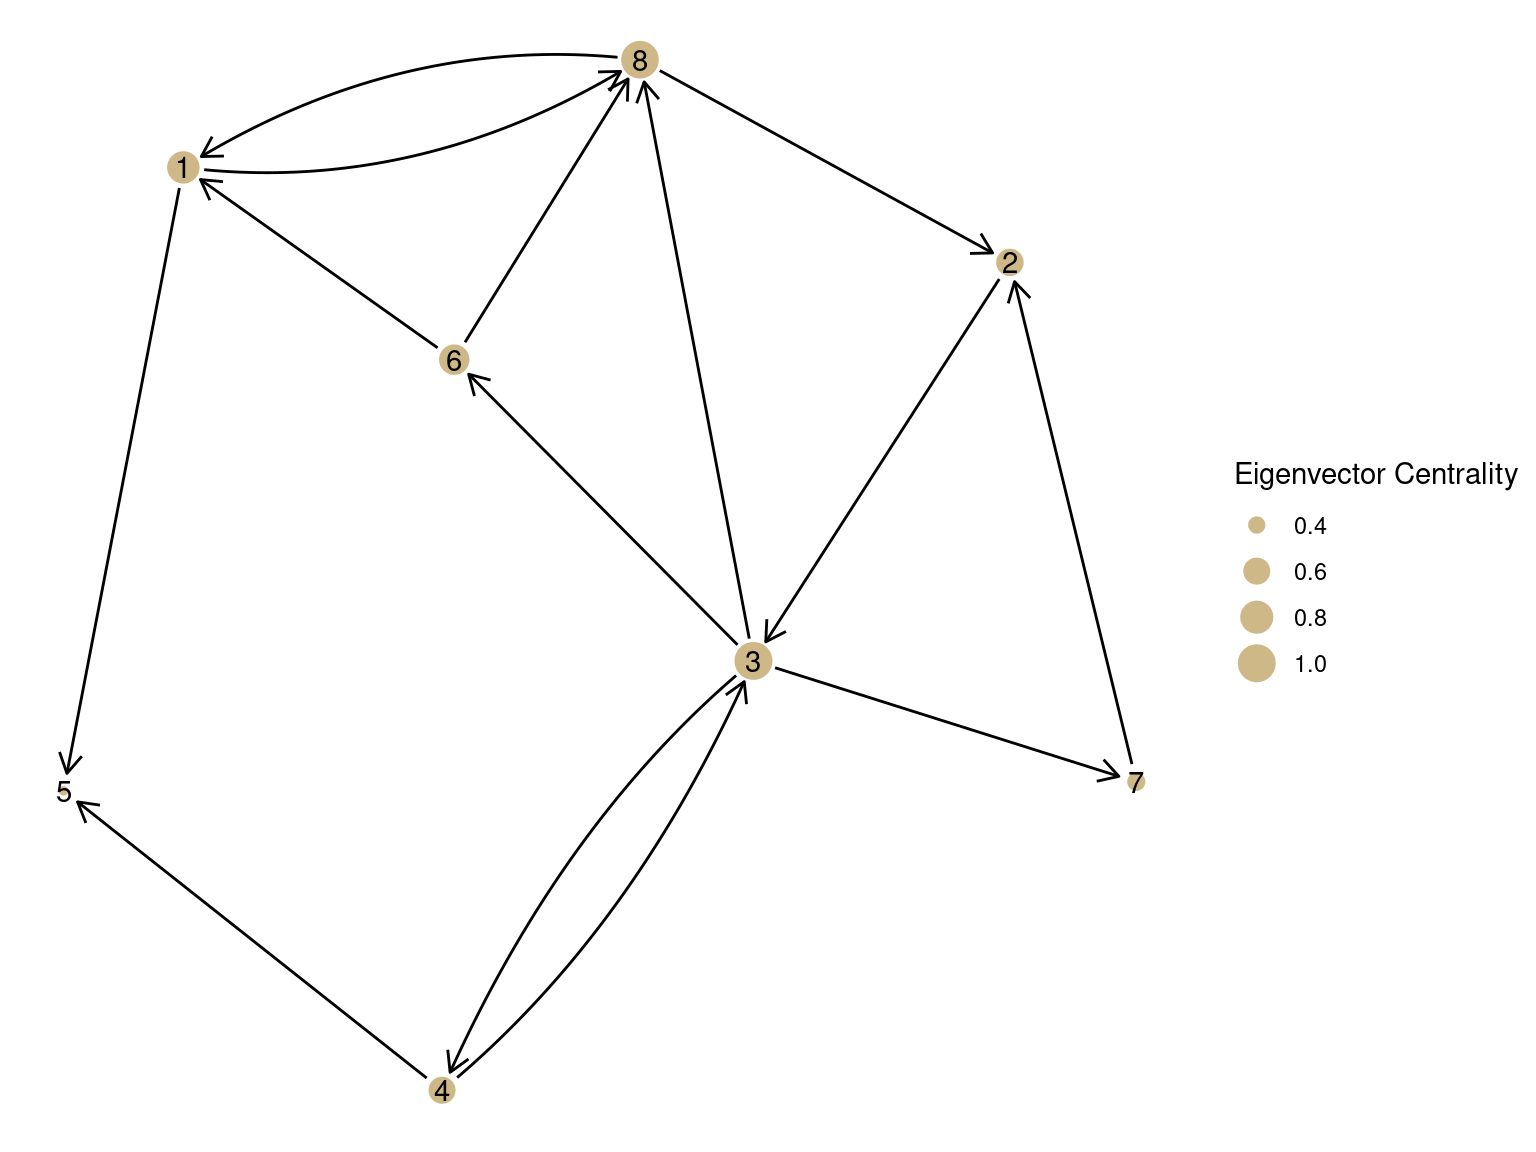
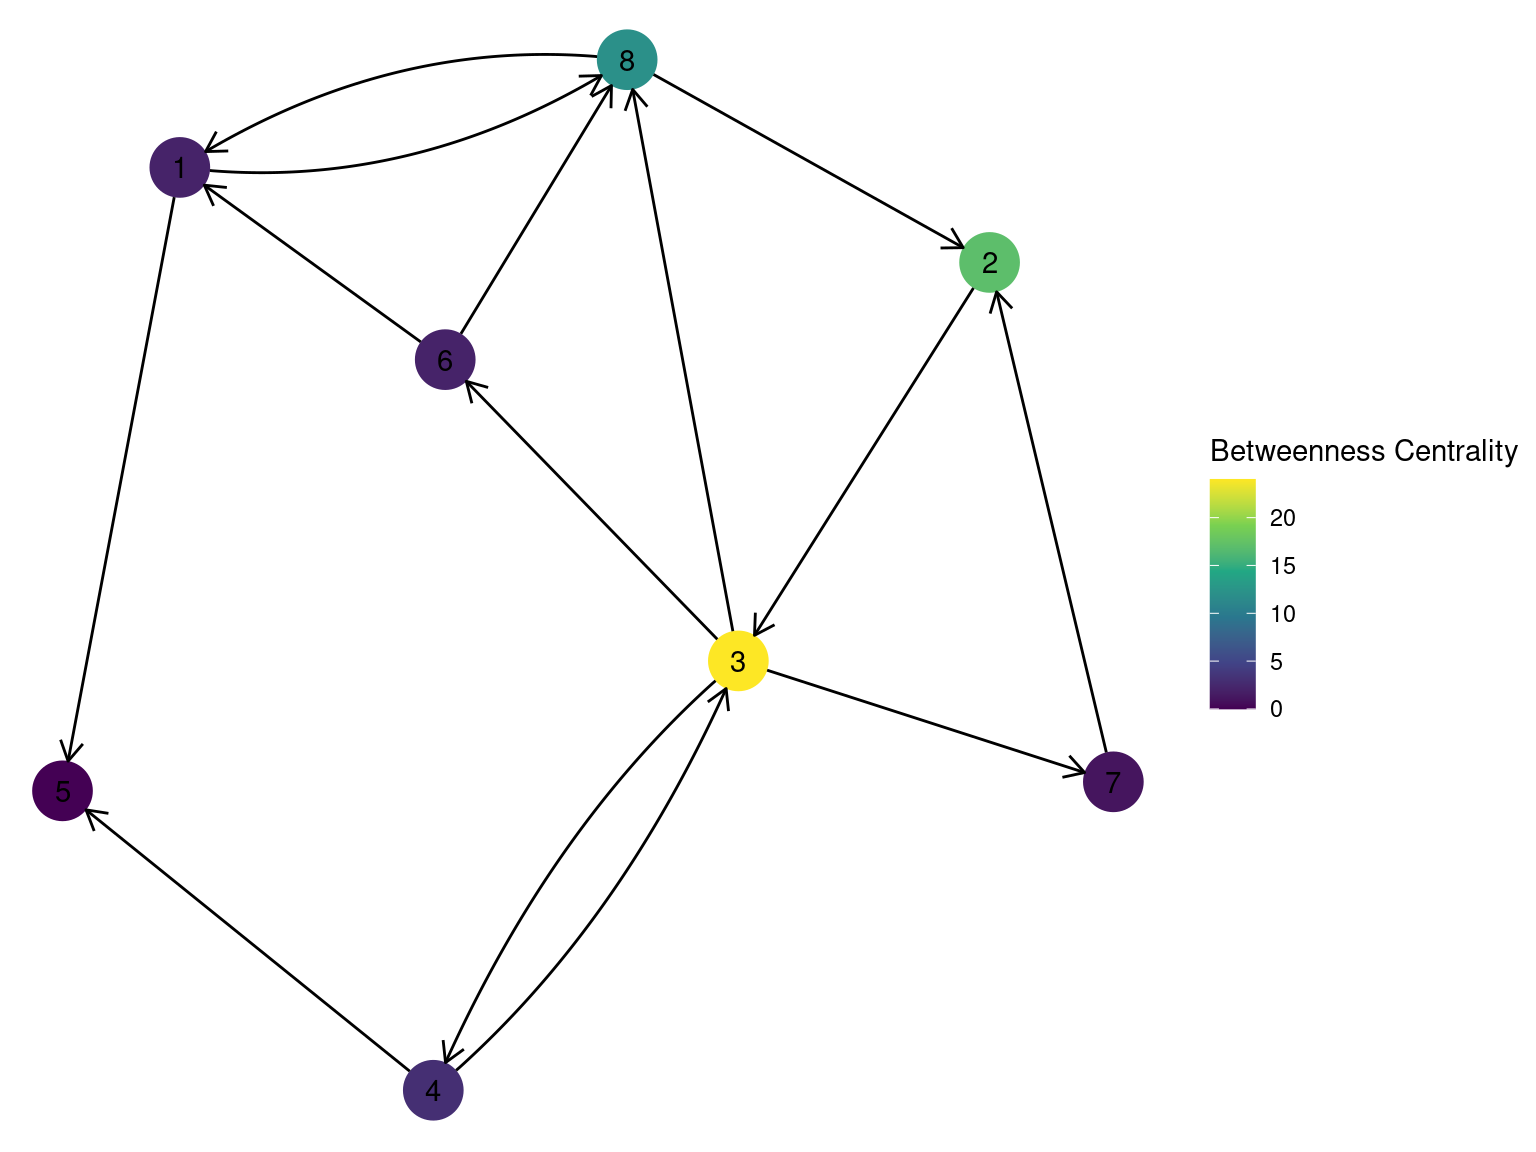
Fixing bug in YAML

diff --git a/week_6/power_visualization.html b/week_6/power_visualization.html
@@ -588,33 +588,35 @@ document.getElementsByTagName('head')[0].appendChild(style);
 <h3 id="exercise-2">Exercise</h3>
 <p>Look again at the network and guess which nodes will have the highest betweenness centrality.</p>
 <p>After you’ve done that, turn this into a code block (by adding “{r}” after the backticks) and then find the bug in the code below so that it shows betweenness centrality</p>
-<pre><code>G %&gt;%
-  activate(nodes) %&gt;%
-  mutate(centrality = centrality_betweenness()) %&gt;%
-  ggraph() +
-  geom_node_point(aes(size = centrality), color = &#39;#ceb888&#39;) +
-  geom_node_text(aes(label = 1:8)) +
-  geom_edge_fan(end_cap = circle(node2.centrality + 2,&quot;mm&quot;),
-                start_cap = circle(node1.centrality + 2, &quot;mm&quot;),
-                arrow = arrow(length = unit(3, &#39;mm&#39;))) +
-  scale_size_continuous(name = &quot;Betweenness Centrality&quot;)</code></pre>
+<div class="sourceCode" id="cb11"><pre class="sourceCode r"><code class="sourceCode r"><a class="sourceLine" id="cb11-1" data-line-number="1">G <span class="op">%&gt;%</span></a>
+<a class="sourceLine" id="cb11-2" data-line-number="2"><span class="st">  </span><span class="kw">activate</span>(nodes) <span class="op">%&gt;%</span></a>
+<a class="sourceLine" id="cb11-3" data-line-number="3"><span class="st">  </span><span class="kw">mutate</span>(<span class="dt">centrality =</span> <span class="kw">centrality_betweenness</span>()) <span class="op">%&gt;%</span></a>
+<a class="sourceLine" id="cb11-4" data-line-number="4"><span class="st">  </span><span class="kw">ggraph</span>() <span class="op">+</span></a>
+<a class="sourceLine" id="cb11-5" data-line-number="5"><span class="st">  </span><span class="kw">geom_node_point</span>(<span class="kw">aes</span>(<span class="dt">color =</span> centrality), <span class="dt">size =</span> <span class="dv">10</span>) <span class="op">+</span></a>
+<a class="sourceLine" id="cb11-6" data-line-number="6"><span class="st">  </span><span class="kw">geom_node_text</span>(<span class="kw">aes</span>(<span class="dt">label =</span> <span class="dv">1</span><span class="op">:</span><span class="dv">8</span>)) <span class="op">+</span></a>
+<a class="sourceLine" id="cb11-7" data-line-number="7"><span class="st">  </span><span class="kw">geom_edge_fan</span>(<span class="kw">aes</span>(<span class="dt">end_cap =</span> <span class="kw">circle</span>(<span class="dv">4</span>,<span class="st">&quot;mm&quot;</span>),</a>
+<a class="sourceLine" id="cb11-8" data-line-number="8">                <span class="dt">start_cap =</span> <span class="kw">circle</span>(<span class="dv">4</span>, <span class="st">&quot;mm&quot;</span>)),</a>
+<a class="sourceLine" id="cb11-9" data-line-number="9">                <span class="dt">arrow =</span> <span class="kw">arrow</span>(<span class="dt">length =</span> <span class="kw">unit</span>(<span class="dv">3</span>, <span class="st">&#39;mm&#39;</span>))) <span class="op">+</span></a>
+<a class="sourceLine" id="cb11-10" data-line-number="10"><span class="st">  </span><span class="kw">scale_color_viridis_c</span>(<span class="dt">name =</span> <span class="st">&quot;Betweenness Centrality&quot;</span>)</a></code></pre></div>
+<pre><code>## Using `stress` as default layout</code></pre>
+<p><img src="power_visualization_files/figure-revealjs/unnamed-chunk-6-1.png" width="768" /></p>
 </section><section id="eigenvector-centrality" class="slide level2">
 <h2>Eigenvector centrality</h2>
 <p>The last important measures of centrality is eigenvector centrality. The calculation is complicated and based on matrix algebra but the concept is pretty simple: all else being equal, a node is more powerful if it’s connected to a node that’s well-connected.</p>
 <p>This is actually the basis of Google’s original search algorithm, and is part of what made them successful.</p>
 <h3 id="exercise-3">Exercise</h3>
-<div class="sourceCode" id="cb12"><pre class="sourceCode r"><code class="sourceCode r"><a class="sourceLine" id="cb12-1" data-line-number="1">G <span class="op">%&gt;%</span></a>
-<a class="sourceLine" id="cb12-2" data-line-number="2"><span class="st">  </span><span class="kw">activate</span>(nodes) <span class="op">%&gt;%</span></a>
-<a class="sourceLine" id="cb12-3" data-line-number="3"><span class="st">  </span><span class="kw">mutate</span>(<span class="dt">centrality =</span> <span class="kw">centrality_eigen</span>()) <span class="op">%&gt;%</span></a>
-<a class="sourceLine" id="cb12-4" data-line-number="4"><span class="st">  </span><span class="kw">ggraph</span>() <span class="op">+</span></a>
-<a class="sourceLine" id="cb12-5" data-line-number="5"><span class="st">  </span><span class="kw">geom_node_point</span>(<span class="kw">aes</span>(<span class="dt">size =</span> centrality), <span class="dt">color =</span> <span class="st">&#39;#ceb888&#39;</span>) <span class="op">+</span></a>
-<a class="sourceLine" id="cb12-6" data-line-number="6"><span class="st">  </span><span class="kw">geom_node_text</span>(<span class="kw">aes</span>(<span class="dt">label =</span> <span class="dv">1</span><span class="op">:</span><span class="dv">8</span>)) <span class="op">+</span></a>
-<a class="sourceLine" id="cb12-7" data-line-number="7"><span class="st">  </span><span class="kw">geom_edge_fan</span>(<span class="kw">aes</span>(<span class="dt">end_cap =</span> <span class="kw">circle</span>(node2.centrality <span class="op">+</span><span class="st"> </span><span class="dv">2</span>,<span class="st">&quot;mm&quot;</span>),</a>
-<a class="sourceLine" id="cb12-8" data-line-number="8">                    <span class="dt">start_cap =</span> <span class="kw">circle</span>(node1.centrality <span class="op">+</span><span class="st"> </span><span class="dv">2</span>, <span class="st">&quot;mm&quot;</span>)),</a>
-<a class="sourceLine" id="cb12-9" data-line-number="9">                <span class="dt">arrow =</span> <span class="kw">arrow</span>(<span class="dt">length =</span> <span class="kw">unit</span>(<span class="dv">3</span>, <span class="st">&#39;mm&#39;</span>))) <span class="op">+</span></a>
-<a class="sourceLine" id="cb12-10" data-line-number="10"><span class="st">  </span><span class="kw">scale_size_continuous</span>(<span class="dt">name =</span> <span class="st">&quot;Eigenvector Centrality&quot;</span>)</a></code></pre></div>
+<div class="sourceCode" id="cb13"><pre class="sourceCode r"><code class="sourceCode r"><a class="sourceLine" id="cb13-1" data-line-number="1">G <span class="op">%&gt;%</span></a>
+<a class="sourceLine" id="cb13-2" data-line-number="2"><span class="st">  </span><span class="kw">activate</span>(nodes) <span class="op">%&gt;%</span></a>
+<a class="sourceLine" id="cb13-3" data-line-number="3"><span class="st">  </span><span class="kw">mutate</span>(<span class="dt">centrality =</span> <span class="kw">centrality_eigen</span>()) <span class="op">%&gt;%</span></a>
+<a class="sourceLine" id="cb13-4" data-line-number="4"><span class="st">  </span><span class="kw">ggraph</span>() <span class="op">+</span></a>
+<a class="sourceLine" id="cb13-5" data-line-number="5"><span class="st">  </span><span class="kw">geom_node_point</span>(<span class="kw">aes</span>(<span class="dt">size =</span> centrality), <span class="dt">color =</span> <span class="st">&#39;#ceb888&#39;</span>) <span class="op">+</span></a>
+<a class="sourceLine" id="cb13-6" data-line-number="6"><span class="st">  </span><span class="kw">geom_node_text</span>(<span class="kw">aes</span>(<span class="dt">label =</span> <span class="dv">1</span><span class="op">:</span><span class="dv">8</span>)) <span class="op">+</span></a>
+<a class="sourceLine" id="cb13-7" data-line-number="7"><span class="st">  </span><span class="kw">geom_edge_fan</span>(<span class="kw">aes</span>(<span class="dt">end_cap =</span> <span class="kw">circle</span>(node2.centrality <span class="op">+</span><span class="st"> </span><span class="dv">2</span>,<span class="st">&quot;mm&quot;</span>),</a>
+<a class="sourceLine" id="cb13-8" data-line-number="8">                    <span class="dt">start_cap =</span> <span class="kw">circle</span>(node1.centrality <span class="op">+</span><span class="st"> </span><span class="dv">2</span>, <span class="st">&quot;mm&quot;</span>)),</a>
+<a class="sourceLine" id="cb13-9" data-line-number="9">                <span class="dt">arrow =</span> <span class="kw">arrow</span>(<span class="dt">length =</span> <span class="kw">unit</span>(<span class="dv">3</span>, <span class="st">&#39;mm&#39;</span>))) <span class="op">+</span></a>
+<a class="sourceLine" id="cb13-10" data-line-number="10"><span class="st">  </span><span class="kw">scale_size_continuous</span>(<span class="dt">name =</span> <span class="st">&quot;Eigenvector Centrality&quot;</span>)</a></code></pre></div>
 <pre><code>## Using `stress` as default layout</code></pre>
-<p><img src="power_visualization_files/figure-revealjs/unnamed-chunk-6-1.png" width="768" /></p>
+<p><img src="power_visualization_files/figure-revealjs/unnamed-chunk-7-1.png" width="768" /></p>
 <p>Why does Node 5 have such low centrality? Why does 8 have such high centrality?</p>
 </section></section>
     </div>

diff --git a/week_6/lecture/week_6.html b/week_6/lecture/week_6.html
@@ -3,7 +3,7 @@
 <head>
   <meta charset="utf-8">
   <meta name="generator" content="pandoc">
-  <title>Week 6</title>
+  <title>Week 5</title>
   <meta name="apple-mobile-web-app-capable" content="yes">
   <meta name="apple-mobile-web-app-status-bar-style" content="black-translucent">
   <meta name="viewport" content="width=device-width, initial-scale=1.0, maximum-scale=1.0, user-scalable=no, minimal-ui">
@@ -449,63 +449,29 @@ document.getElementsByTagName('head')[0].appendChild(style);
     <div class="slides">
 
 <section>
-    <h1 class="title">Week 6</h1>
+    <h1 class="title">Week 5</h1>
 </section>
 
 <section id="dad-joke" class="slide level2">
 <h2>Dad Joke</h2>
-<p>Bro, can you pass me that leaflet?</p>
-<p>Brochure.</p>
-</section>
-<section id="self-reflections" class="slide level2">
-<h2>Self Reflections</h2>
-<ul>
-<li class="fragment">Thank you so much for being open and honest!</li>
-<li class="fragment">Some summary thoughts</li>
-<li class="fragment">Overall, things are going pretty well</li>
-<li class="fragment">R has been hard but people are feeling OK about it</li>
-<li class="fragment">Lots of people want to engage more in class
-<ul>
-<li class="fragment">Expressing confusion and asking questions is often better for learning</li>
-</ul></li>
-<li class="fragment">People are working together outside of class
-<ul>
-<li class="fragment">Move some of this to Discord?</li>
-</ul></li>
-</ul>
-</section>
-<section id="anonymous-feedback" class="slide level2">
-<h2>Anonymous Feedback</h2>
-<ul>
-<li class="fragment">People like our discussions</li>
-<li class="fragment">Possible changes
-<ul>
-<li class="fragment">More lectures and less readings</li>
-<li class="fragment">Better plan for notes</li>
-<li class="fragment">Making assignments in Brightspace</li>
-</ul></li>
-</ul>
+<p>My landlord texted saying we need to meet up and talk about how high my heating bill is.</p>
+<p class="fragment">
+I replied back: “Sure, my door is always open.”
+</p>
 </section>
 <section id="housekeeping" class="slide level2">
 <h2>Housekeeping</h2>
 <ul>
-<li class="fragment">Explanation of why R + fundamentals of R and ggraph videos</li>
-<li class="fragment">Videos + readings on centrality and power</li>
-<li class="fragment">How do we measure who is important and influential?</li>
-</ul>
-</section>
-<section id="today" class="slide level2">
-<h2>Today</h2>
+<li class="fragment">Confusion around getting help with R
 <ul>
-<li class="fragment">Try doing a discussion / summarization in breakout rooms
-<ul>
-<li class="fragment">Identify 3-4 important ideas for goals of the class</li>
-<li class="fragment">Write on the shared doc</li>
+<li class="fragment">Goal is understanding and competence</li>
+<li class="fragment">There are difficulties to be worked through</li>
+<li class="fragment">But explaining confusion and asking for help can be good</li>
+<li class="fragment">If you got it, try to help others without just giving the answer</li>
 </ul></li>
-<li class="fragment">Room 1: Lecture</li>
-<li class="fragment">Room 2: Hanneman and Riddle, Ch. 9</li>
-<li class="fragment">Room 3: Marsden - Discussion networks</li>
-<li class="fragment">Room 4: Smith et al - Status differences</li>
+<li class="fragment">Sorry about the YAML front matter bug!</li>
+<li class="fragment">No R this week</li>
+<li class="fragment">But a lot of readings</li>
 </ul>
 </section>
     </div>
